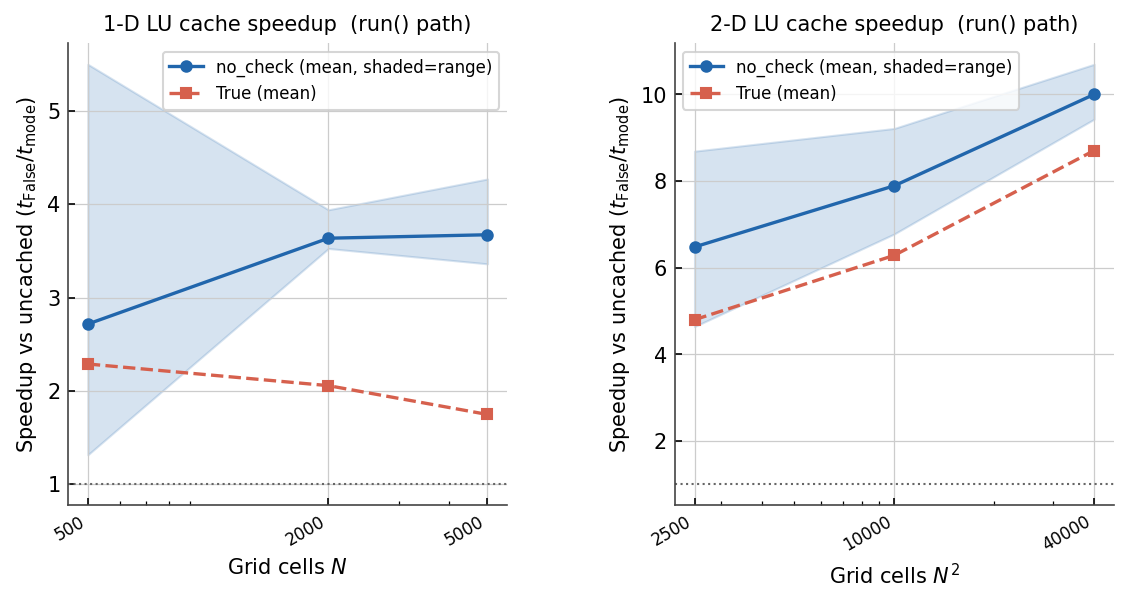
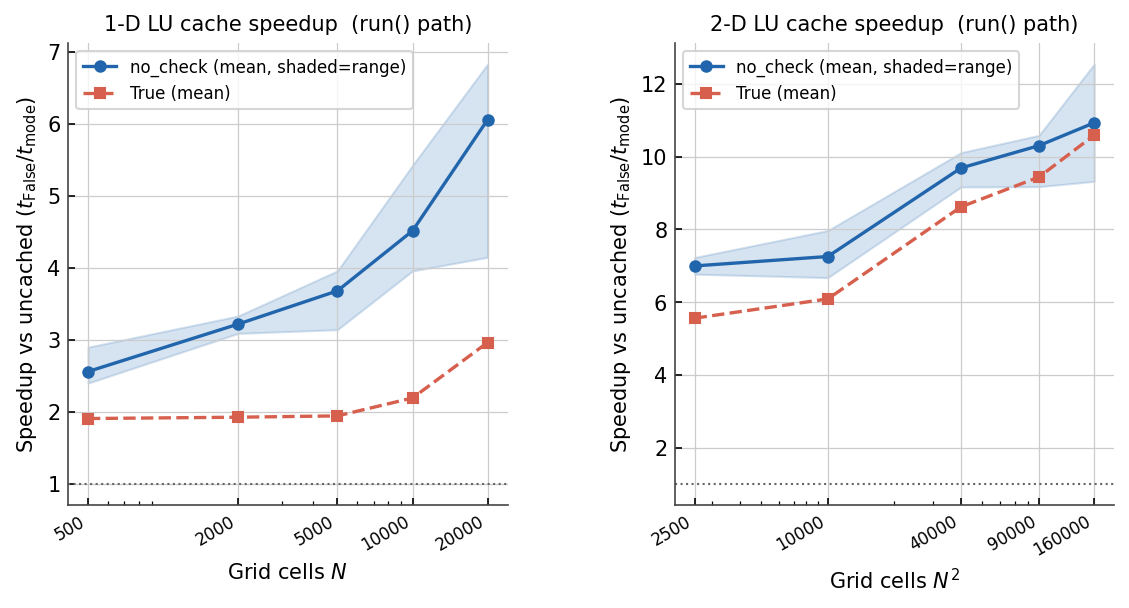
benchmarks: extend to 400×400 (2D) / N=20000 (1D); update docs
Regenerate all three benchmark figures with extended size ranges:
- 2D FD / LU cache / Te sweep now include 300×300 and 400×400
- 1D now includes N=10000 and N=20000

Update benchmarks.rst text with accurate numbers from the new run:
- Solver scaling: 5.5 s → 5 s at 400×400; 0.7 s → 0.6 s at 200×200
- LU cache speedup: 6–10× (50×50–200×200) → 7–12× (50×50–400×400)
- Te sweep: 70 ms/550 ms/8× at 200×200 → 53 ms/590 ms/11×; add 400×400 row (400 ms/5.3 s/13×)

diff --git a/docs/benchmarks.rst b/docs/benchmarks.rst
@@ -27,7 +27,7 @@ Solver scaling
 The **FD direct solver** uses a sparse LU factorisation and scales roughly as
 :math:`O(N^{1.5})` in two dimensions, where :math:`N` is the total number of
 grid cells.  At 400×400 cells (:math:`N^2 = 160\,000`) a single FD solve takes
-about 5.5 s; at 200×200 it takes about 0.7 s.
+about 5 s; at 200×200 it takes about 0.6 s.
 
 The **FFT** method solves the problem in the spectral domain and scales as
 :math:`O(N \log N)`.  In two dimensions it is roughly two orders of magnitude
@@ -64,8 +64,8 @@ thickness, and boundary conditions remain fixed, the coefficient matrix does
 not change.  Caching the LU factorisation eliminates the cost of re-factorising
 on every call, reducing the per-solve work to a single triangular solve.
 
-In two dimensions the **``"no_check"``** mode reaches **6–10× speedup** over
-uncached at grid sizes of 50×50 to 200×200 cells.  The speedup grows with
+In two dimensions the **``"no_check"``** mode reaches **7–12× speedup** over
+uncached at grid sizes of 50×50 to 400×400 cells.  The speedup grows with
 grid size because the factorisation cost (eliminated by caching) scales as
 :math:`O(N^{1.5})` while the cached solve (triangular back-substitution) scales
 as :math:`O(N)`.
@@ -103,8 +103,10 @@ All three cache modes (``False``, ``True``, ``"no_check"``) pay essentially the
 same cost when :math:`T_e` changes, because the rebuild dominates the per-call
 budget.
 
-At 200×200 cells the load-only cost is roughly **70 ms** per solve while a
-:math:`T_e` change costs roughly **550 ms** per solve — about an **8× penalty**.
+At 200×200 cells the load-only cost is roughly **53 ms** per solve while a
+:math:`T_e` change costs roughly **590 ms** per solve — about an **11× penalty**.
+At 400×400 cells the load-only cost is roughly **400 ms** per solve while a
+:math:`T_e` change costs roughly **5.3 s** — about a **13× penalty**.
 The gap widens with grid size because factorisation scales as :math:`O(N^{1.5})`
 and the incremental triangular solve scales as :math:`O(N)`.
 
